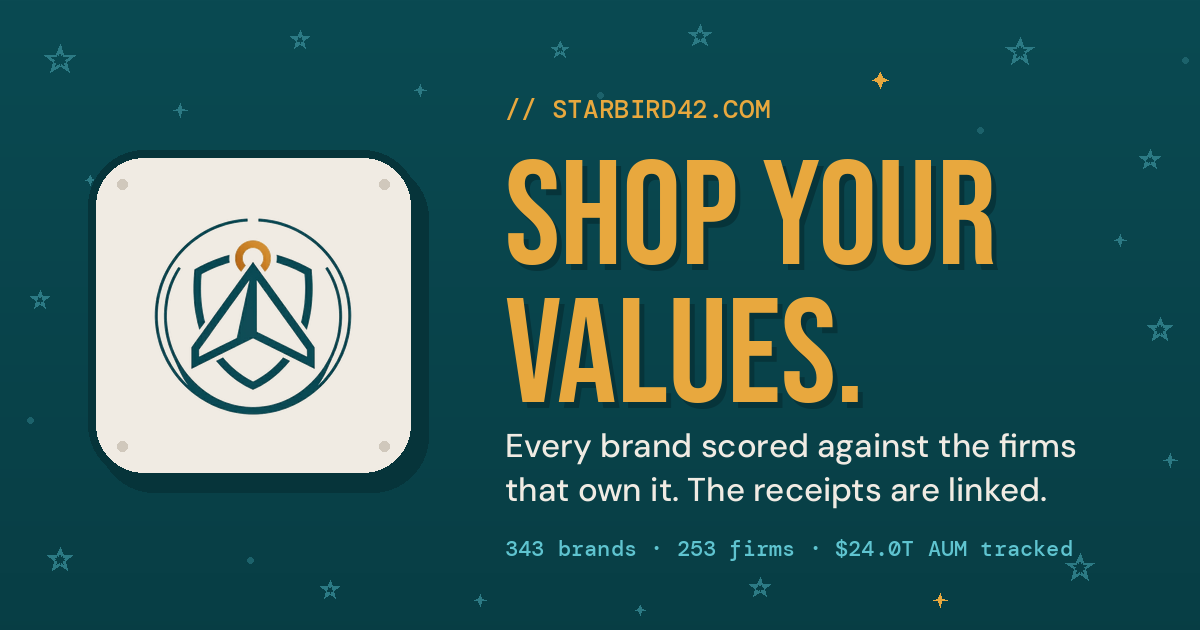
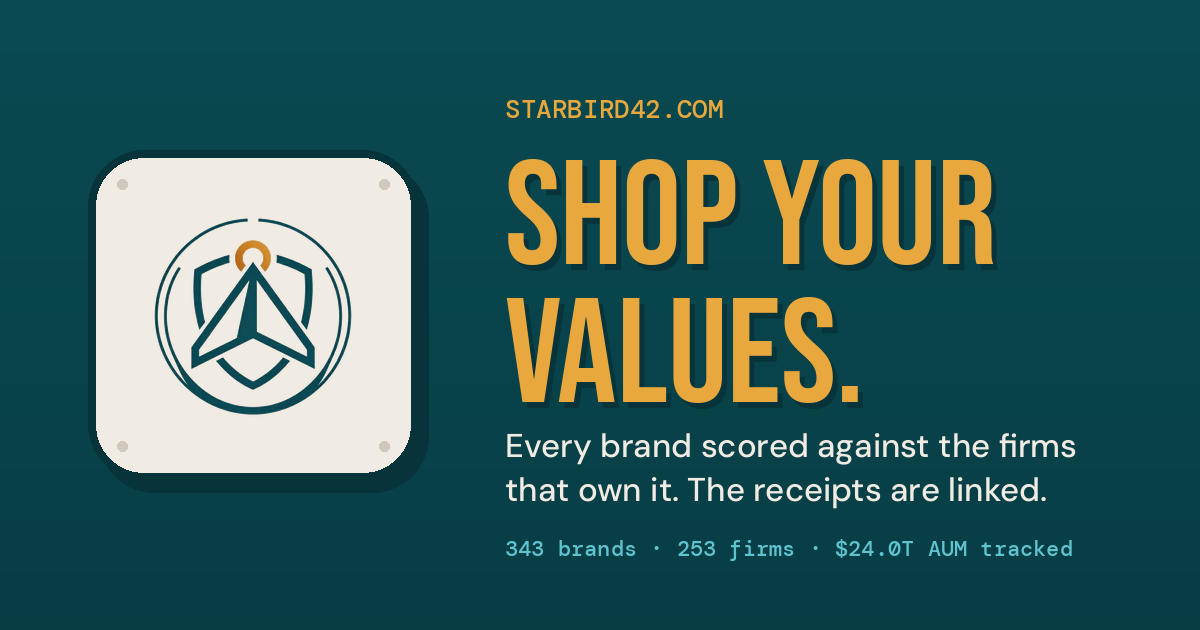
Share card: drop star confetti + // eyebrow prefix (2pizza-isms)

diff --git a/scripts/generate-card-images.py b/scripts/generate-card-images.py
@@ -8,7 +8,6 @@ Run: python3 scripts/generate-card-images.py
 Re-run whenever data.json changes (the Guardian can trigger this).
 """
 import json
-import math
 import pathlib
 import textwrap
 from PIL import Image, ImageDraw, ImageFont
@@ -191,33 +190,11 @@ def _site_font(filename, size, fallback, variation_axes=None):
         return ImageFont.load_default()
 
 
-def _sparkle(draw, cx, cy, r, fill):
-    """Four-point sparkle (concave diamond)."""
-    s = r * 0.28
-    draw.polygon(
-        [
-            (cx, cy - r), (cx + s, cy - s), (cx + r, cy), (cx + s, cy + s),
-            (cx, cy + r), (cx - s, cy + s), (cx - r, cy), (cx - s, cy - s),
-        ],
-        fill=fill,
-    )
-
-
-def _star_outline(draw, cx, cy, r, color, width=3):
-    """Five-point star outline, like the 2pizza confetti stars."""
-    pts = []
-    for i in range(10):
-        rad = r if i % 2 == 0 else r * 0.42
-        ang = math.radians(-90 + i * 36)
-        pts.append((cx + rad * math.cos(ang), cy + rad * math.sin(ang)))
-    draw.polygon(pts, outline=color, width=width)
-
-
 def render_default(stats):
     """Default OG image used when the homepage URL is shared.
-    Bold poster layout: deep-teal field with star confetti, a big
-    cream badge holding the logo on the left, and the wordmark +
-    tagline + live stat line on the right."""
+    Bold poster layout: deep-teal field, a big cream badge holding
+    the logo on the left, and the wordmark + tagline + live stat
+    line on the right."""
     # Palette — deep teal field from the site's theme-color, with the
     # logo's cyan and gold doing the accent work.
     FIELD = (10, 74, 82)        # #0a4a52 — site theme-color
@@ -225,8 +202,6 @@ def render_default(stats):
     CREAM = (240, 235, 227)     # #f0ebe3 — site ink
     GOLD = (232, 168, 62)       # #e8a83e
     CYAN = (95, 196, 208)       # #5fc4d0
-    CONFETTI = (28, 98, 107)    # quiet star outlines
-    CONFETTI_BRIGHT = (44, 122, 132)
 
     img = Image.new("RGB", (W, H), FIELD)
     draw = ImageDraw.Draw(img)
@@ -238,27 +213,6 @@ def render_default(stats):
         g = int(FIELD[1] + (FIELD_DEEP[1] - FIELD[1]) * t * 0.55)
         b = int(FIELD[2] + (FIELD_DEEP[2] - FIELD[2]) * t * 0.55)
         draw.line([(0, y), (W, y)], fill=(r, g, b))
-
-    # Star confetti — fixed positions (deterministic output), denser at
-    # the edges so the text stays readable.
-    outline_stars = [
-        (60, 60, 16), (300, 40, 10), (700, 36, 12), (1020, 52, 15),
-        (1150, 160, 11), (40, 300, 10), (1160, 330, 13), (60, 560, 13),
-        (330, 590, 10), (760, 588, 11), (1080, 568, 15), (560, 50, 9),
-    ]
-    for cx, cy, r in outline_stars:
-        _star_outline(draw, cx, cy, r, CONFETTI_BRIGHT, width=3)
-    sparkles = [
-        (180, 110, 7, CONFETTI_BRIGHT), (880, 80, 8, GOLD),
-        (1120, 240, 6, CONFETTI_BRIGHT), (140, 480, 8, GOLD),
-        (480, 600, 6, CONFETTI_BRIGHT), (940, 600, 7, GOLD),
-        (420, 90, 6, CONFETTI_BRIGHT), (1170, 460, 7, CONFETTI_BRIGHT),
-        (90, 180, 5, CONFETTI_BRIGHT), (640, 610, 5, CONFETTI_BRIGHT),
-    ]
-    for cx, cy, r, col in sparkles:
-        _sparkle(draw, cx, cy, r, col)
-    for cx, cy in [(250, 560), (980, 130), (30, 420), (1185, 60), (600, 95)]:
-        draw.ellipse([cx - 3, cy - 3, cx + 3, cy + 3], fill=CONFETTI)
 
     # --- Left: big cream badge with the logo ------------------------------
     badge = 330
@@ -309,7 +263,7 @@ def render_default(stats):
     )
 
     # Site URL eyebrow
-    draw.text((tx, 92), "// STARBIRD42.COM", fill=GOLD, font=mono)
+    draw.text((tx, 92), "STARBIRD42.COM", fill=GOLD, font=mono)
 
     # Headline — Bebas Neue, gold with a deep-teal drop shadow.
     ty = 130
